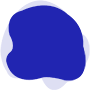
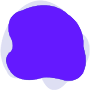
Theme Changes

diff --git a/docs/css/bootstrap.min.css b/docs/css/bootstrap.min.css
@@ -3082,14 +3082,14 @@ fieldset:disabled .btn {
 
 .btn-primary {
     color: #fff;
-    background-color: #2124B1;
-    border-color: #2124B1
+    background-color: #6419FF;
+    border-color: #6419FF
 }
 
 .btn-primary:hover {
     color: #fff;
-    background-color: #1c1f96;
-    border-color: #1a1d8e
+    background-color: #2B0080;
+    border-color: #2B0080
 }
 
 .btn-check:focus+.btn-primary,
